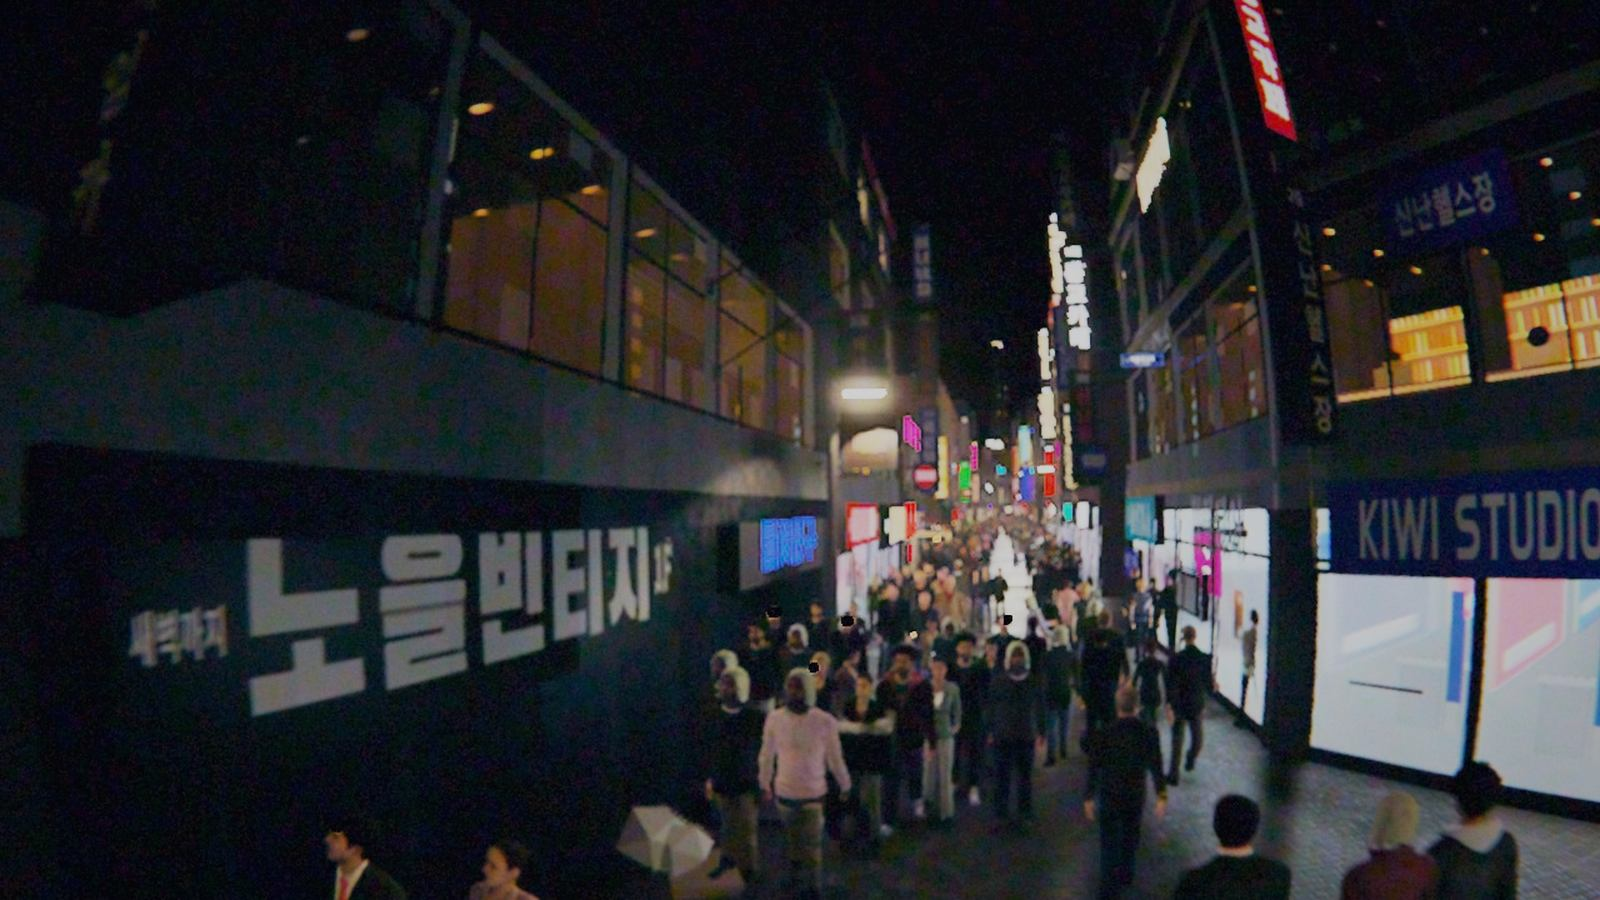
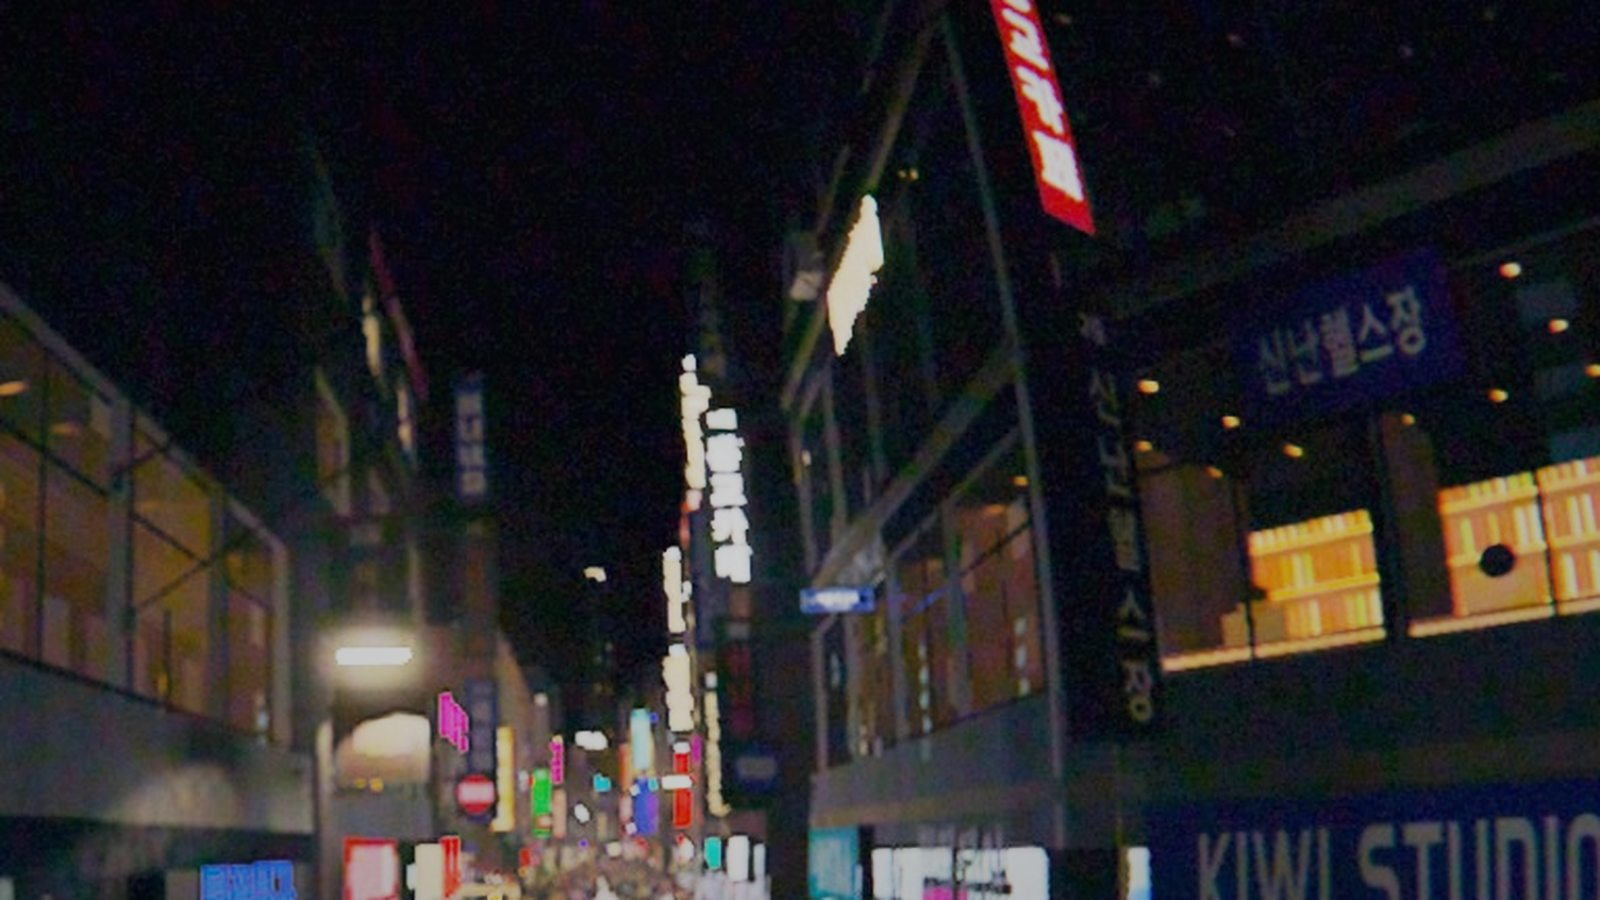
F2 P4 ui #1 / #2: identity stills re-graded from phase-3 stills: thumb = walk0's sign column (3.6 % saturated-bright, was 0.4 %), backdrop = w21 above the crowd (no faces: no mask dots or hair hoods); stills.json records source, crop, pose and hashes; backdropPos on the street's vanishing point
Claude-Session: https://claude.ai/code/session_01RMwmUZCq8AegA1JMz4Q6AH

diff --git a/tools/seoul-ui-assets.py b/tools/seoul-ui-assets.py
@@ -16,12 +16,16 @@
   s >= 0.5 and v >= 0.6: lit neon, not white boxes). tests/seoul-ui.mjs checks the hashes and the thumb's share (>= 3 %).
 Re-run after adding hangul to levels.json or new street names to the layout.
 
-Re-shooting the stills ([P4]; the poses ship in stills.json): from a seoulsnap-style run of the build at 1280x720 or more,
-HUD off (hud: clean), quality auto, acro, the drone held still:
+Re-shooting the stills ([P4]). The P4 stills are crops of phase-3 seoulsnap stills (stills.json says which): the backdrop
+is w21 above the crowd (no face, so no mask-band dots or hair hoods), the thumb walk0's sign column (3.6 % saturated-
+bright; the Yanghwa-ro crossing had 0.4 %). Re-shoot once G1's mask fix lands (tests/seoul-ui.mjs fails until the stills
+are newer than seoul-life.js): from a seoulsnap run of the build, 1280x720 or more, HUD off, quality auto, acro, held still.
+Proposed poses, not yet shot (both P4 world runs were OOM-killed in the shared cgroup):
   thumb     o.tp(224.9, 3.2, -334.2, 107, 4 - camTilt): the walking street at the spawn, signs on both sides
-  backdrop  o.tp(205.9, 7.5, -322.5, 127.6, -8 - camTilt): over the stage end of the walking street, 7.5 m up, so no face in
-            the crowd is over ~30 px at 1600 wide
-  python3 tools/seoul-ui-assets.py --backdrop BD.jpg --backdrop-pose "..." --thumb TH.jpg --thumb-pose "..." [--commit SHA]"""
+  backdrop  o.tp(224.9, 7.5, -334.2, 107, -10 - camTilt): the same street from 7.5 m, so no face is over ~30 px at 1600 wide
+            (or keep a crop above the crowd, as now)
+  python3 tools/seoul-ui-assets.py --backdrop BD.jpg [--backdrop-crop ..] --backdrop-pose "..." --thumb TH.jpg --thumb-pose "..." --commit SHA
+The thumb must keep >= 3 % saturated-bright pixels (crop to the signs if a pose falls short)."""
 import argparse, json, os, re, sys
 from fontTools import subset
 from fontTools.ttLib import TTFont
